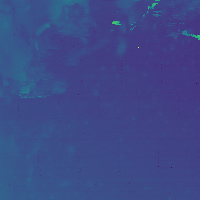
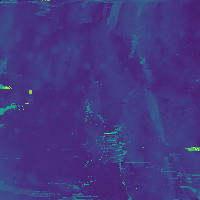
Version used in presentation with added interpolation (nn and cubic)

diff --git a/Desktop/SICMGUIPyQT.py b/Desktop/SICMGUIPyQT.py
@@ -2,7 +2,7 @@ import numpy as np
 import PyQt5 as pqt
 from PyQt5.QtWidgets import *
 from PyQt5.QtGui import *
-from ManipulateData import filter_average_temporal, filter_median_temporal, interpolate_cubic, interpolate_neighbor, level_data, subtract_minimum, filter_average_spatial, filter_median_spatial, crop
+from ManipulateData import filter_average_temporal, filter_median_temporal, interpolate_cubic, level_data, subtract_minimum, filter_average_spatial, filter_median_spatial, crop
 from SICMViewerHelper import SICMDataFactory, ApproachCurve, ScanBackstepMode
 from matplotlib.backends.backend_qt5 import NavigationToolbar2QT
 from View import View
@@ -130,7 +130,7 @@ class MainWindow(QtWidgets.QMainWindow):
         action_export_bitmap = QAction('&As bitmap (png)', self)
         action_export_bitmap.triggered.connect(self.menu_action_export_bitmap)
         action_export_vector = QAction('&as vector (pdf)', self)
-        #action_export_vector.triggered.connect(self.menu_action_export_vector)
+        action_export_vector.triggered.connect(self.menu_action_export_vector)
 
         export_menu = menubar.addMenu("&Export")
         clipboard_menu = export_menu.addMenu('As image')
@@ -158,8 +158,8 @@ class MainWindow(QtWidgets.QMainWindow):
         action_view_content = QAction('&Hide axis content', self)
         action_view_content.setCheckable(True)
         action_view_content.triggered.connect(self.menu_action_view_content)
-        action_view_axes = QAction('&Hide axes when updated', self)
-        action_view_axes.setCheckable(True)
+        #action_view_axes = QAction('&Hide axes when updated', self)
+        #action_view_axes.setCheckable(True)
         #action_view_axes.triggered.connect(self.menu_action_view_axes)
         action_view_restore = QAction('&Restore view', self)
         action_view_restore.triggered.connect(self.menu_action_view_restore)
@@ -167,25 +167,25 @@ class MainWindow(QtWidgets.QMainWindow):
         #action_view_mode.triggered.connect(self.menu_action_view_mode)
         action_view_ratio = QAction('&Aspect ratio', self)
         action_view_ratio.triggered.connect(self.menu_action_view_ratio)
-        action_view_surface = QAction('&Interpolate surface', self)
+        #action_view_surface = QAction('&Interpolate surface', self)
         #action_view_surface.triggered.connect(self.menu_action_view_surface)
         action_view_xlimits = QAction('&Adjust x limits', self)
         action_view_xlimits.triggered.connect(self.menu_action_view_xlimits)
         action_view_ylimits = QAction('&Adjust y limits', self)
         action_view_ylimits.triggered.connect(self.menu_action_view_ylimits)
-        action_view_colormap = QAction('&Colormap', self)
-        action_view_colormap.triggered.connect(self.menu_action_view_colormap)
+        #action_view_colormap = QAction('&Colormap', self)
+        #action_view_colormap.triggered.connect(self.menu_action_view_colormap)
 
         view_menu = menubar.addMenu("&View")
         view_menu.addAction(action_view_content)
-        view_menu.addAction(action_view_axes)
+        #view_menu.addAction(action_view_axes)
         view_menu.addAction(action_view_restore)
         #view_menu.addAction(action_view_mode)
         view_menu.addAction(action_view_ratio)
-        view_menu.addAction(action_view_surface)
+        #view_menu.addAction(action_view_surface)
         view_menu.addAction(action_view_xlimits)
         view_menu.addAction(action_view_ylimits)
-        view_menu.addAction(action_view_colormap)
+        #view_menu.addAction(action_view_colormap)
 
         action_data_crop = QAction('&Crop', self)
         action_data_crop.triggered.connect(self.menu_action_data_crop)
@@ -382,6 +382,8 @@ class MainWindow(QtWidgets.QMainWindow):
 
     def menu_action_export_bitmap(self):
         self.currentView.make_plot(self.canvas.axes,save=True)
+    def menu_action_export_vector(self):
+        self.currentView.make_plot(self.canvas.axes,save=True,saveType='pdf')
     def menu_action_plot_zoom(self):
         self.toolbar.zoom()
     def menu_action_plot_pan(self):
@@ -504,15 +506,35 @@ class MainWindow(QtWidgets.QMainWindow):
         #interpolate_cubic(self.currentView)
         #print(f)
         #plt.imshow(interpolate_cubic(self.currentView).T, extent=(0,1,0,1))
-        test = interpolate_cubic(self.currentView).T
+        pixels, success = QtWidgets.QInputDialog.getText(
+            self, 'Interpolation (Cubic Spline)', 'Please enter the number of pixels interpolate per')
+        new_z,new_x,new_y = interpolate_cubic(self.currentView,int(pixels),method='cubic')#.T
         #print(test)
         #print(test.shape)
-        self.currentView.set_z_data(test)
+        self.currentView.set_x_data(new_x)
+        self.currentView.set_y_data(new_y)
+        self.currentView.set_z_data(new_z)
         self.update_plots(self.currentView,self.currentData)
         self.currentView.make_plot(self.canvas.axes)
         return
     def menu_action_data_neighbor(self):
-        #interpolate_neighbor()
+        #TODO Determine intended usage of this 
+        #self.currentView.set_z_data(interpolate_cubic(self.currentView).T)
+        #self.update_plots(self.currentView,self.currentData)
+        #self.currentView.make_plot(self.canvas.axes)
+        #interpolate_cubic(self.currentView)
+        #print(f)
+        #plt.imshow(interpolate_cubic(self.currentView).T, extent=(0,1,0,1))
+        pixels, success = QtWidgets.QInputDialog.getText(
+            self, 'Interpolation (Cubic Spline)', 'Please enter the number of pixels interpolate per')
+        new_z,new_x,new_y = interpolate_cubic(self.currentView,int(pixels),method='nearest')#.T
+        #print(test)
+        #print(test.shape)
+        self.currentView.set_x_data(new_x)
+        self.currentView.set_y_data(new_y)
+        self.currentView.set_z_data(new_z)
+        self.update_plots(self.currentView,self.currentData)
+        self.currentView.make_plot(self.canvas.axes)
         return
     
     def menu_action_data_reset(self):

diff --git a/Desktop/ManipulateData.py b/Desktop/ManipulateData.py
@@ -72,7 +72,7 @@ def fitting_objective(real,pred):
 def crop(data,dims):
     #TODO Fix bug where pressing "Restore View" while cropped will prevent proper limits when crop is removed
     #Fixed, but different bug. Look at the interactions
-    ret_data = [i[dims[0,0]:dims[0,1],dims[1,0]:dims[1,1]] for i in data]
+    ret_data = [i[dims[1,0]:dims[1,1],dims[0,0]:dims[0,1]] for i in data]
     return ret_data
 
 #def transpose_z():
@@ -109,11 +109,22 @@ def level_plane(view_ob,guess = [0,0,0]):
 
 
 def level_data(view_ob,method='plane'):
+    """
+    Level Data
+    This method is intended to correct for a variety of possible shapes that . 
+
+    :param view_ob: View object which contains the data 
+    :returns: An adjusted NDArray of z-data which corresponds to the original data with the specified geometry subtracted.
+    This NDArray will be the 
+    """
     full_x = view_ob.get_x_data()
     full_y = view_ob.get_y_data()
     real_z = view_ob.get_z_data().flatten('F')
     real_x = view_ob.get_x_data().flatten('F')
-    real_y = view_ob.get_y_data().flatten('F')
+    real_y = view_ob.get_y_data().flatten('F') 
+    #In the below methods, each array is a . 
+    #Each array is a 
+    #For example, the general equation of a plane can be stated as z = ax + by + c
     if method == 'plane' or method == 'linewise' or method == 'linewise_mean' or method == 'linewise_y':
         eq = np.array([np.ones(real_z.shape[0]), real_x, real_y]).transpose()
     elif method == '2Dpoly':
@@ -123,14 +134,17 @@ def level_data(view_ob,method='plane'):
     coeff, r, rank, s = np.linalg.lstsq(eq, real_z,rcond=1)
     print(coeff)
     xy_coord = np.array([view_ob.get_x_data().flatten('F'), view_ob.get_y_data().flatten('F')]).transpose()
+    #The coefficients calculated above are then used to create a . This will be 
     if method == 'plane' or method == 'linewise' or method == 'linewise_mean' or method == 'linewise_y':
         pred_z = [coeff[0]+ coeff[1]*i[0]+coeff[2]*i[1] for i in xy_coord]
     if method == '2Dpoly':
         pred_z = [coeff[0] + coeff[1]*i[0]+coeff[2]*i[1] + coeff[3]*(i[0]**2) + coeff[4]*(i[0]**2)*i[1] + coeff[5]*(i[0]**2)*(i[1]**2) + coeff[6]*(i[1]**2) + coeff[7]*i[0]*(i[1]**2)+ coeff[8]*i[0]*i[1] for i in xy_coord]
     if method == 'paraboloid':
+        #pred_z = [coeff[0] + ((coeff[1]**2))/(i[0]**2) + ((coeff[2]**2))/(i[1]**2) for i in xy_coord]
         pred_z = [coeff[0] + (1/(coeff[1]**2))*(i[0]**2) + (1/(coeff[2]**2))*(i[1]**2) for i in xy_coord]
+    print(pred_z[:10])
     adj_z = real_z - pred_z 
-    adj_z = adj_z.reshape(view_ob.get_z_data().shape,order='F')
+    adj_z = adj_z.reshape(view_ob.get_z_data().shape,order='F').transpose()
     '''if method == 'linewise':
         #xz_coord = np.array([view_ob.get_x_data(), adj_z])#.transpose()
         #adj_z = np.empty()
@@ -176,18 +190,40 @@ def level_data(view_ob,method='plane'):
         return retVals
     return view_ob.get_z_data()'''
 
-def interpolate_cubic(view_ob):
-    x = view_ob.get_x_data().flatten()
-    y = view_ob.get_y_data().flatten()
+def interpolate_cubic(view_ob,num_points,method='nearest'):
+    """
+    Interpolate Cubic
+    Sets x-axis limits for the visual display of the data. This does not crop the data and the rest can still be viewed by panning.
+    Will check to ensure the values are floats but does not check that the lower bound is first.
+
+    :param lims: List containing two floats which define the lower and upper bound of the y-axis, respectively
+    :returns: 1 upon successful setting and 0 upon failure
+    """
+    x = view_ob.get_x_data()#.flatten()
+    y = view_ob.get_y_data()#.flatten()
     z = view_ob.get_z_data().flatten()
-    grid_x, grid_y = np.mgrid[0:1:len(x), 0:1:len(y)]
-    rng = np.random.default_rng()
-    points = np.array((x,y)).T#np.insert(x, np.arange(len(y)), y)
-    print(points.shape)
-    inter = griddata(points, z, (grid_x, grid_y), method='cubic')
-    return inter
-def interpolate_neighbor(view_ob):
+    #grid_x, grid_y = np.mgrid[0:len(x):1/num_points, 0:len(y):1/num_points]
+    grid_x_new,grid_y_new = np.mgrid[0:x.shape[0]:1/num_points, 0:x.shape[1]:1/(num_points+1)]
+    #rng = np.random.default_rng()
+    #points = np.array((x,y)).T#np.insert(x, np.arange(len(y)), y)
+    grid_x_old,grid_y_old = np.mgrid[0:x.shape[0],0:x.shape[1]]
+    grid_x_old = grid_x_old.flatten()
+    grid_y_old = grid_y_old.flatten()
+    #print(grid_x_new.shape)
+    #print(z.shape)
+    #print(grid_x_old.shape)
+    inter = griddata((grid_x_old,grid_y_old), z, (grid_x_new,grid_y_new), method=method) #(grid_x,grid_y)
+    return [inter,grid_x_new,grid_y_new]
+'''def interpolate_neighbor(view_ob):
+    """
+    Interpolate Neighbor
+    Sets x-axis limits for the visual display of the data. This does not crop the data and the rest can still be viewed by panning.
+    Will check to ensure the values are floats but does not check that the lower bound is first.
+
+    :param lims: List containing two floats which define the lower and upper bound of the y-axis, respectively
+    :returns: 1 upon successful setting and 0 upon failure
+    """
     grid_x, grid_y = np.mgrid[0:1:100j, 0:1:200j]
     points = np.concatenate((view_ob.get_x_data().flatten(),view_ob.get_y_data().flatten()),axis=1)
     inter = griddata(points, view_ob.get_z_data().flatten(), (grid_x, grid_y), method='nearest')
-    return inter
+    return inter'''

diff --git a/Desktop/View.py b/Desktop/View.py
@@ -32,16 +32,6 @@ class View:
             self.x_data,self.z_data = data.plot()
             self.x_data = np.array(self.x_data)
             self.z_data = np.array(self.z_data)
-        
-
-        #self.plot = plt.plot(*self.sicm_data.plot())
-        #plt.show()
-        #if self.mode == ''
-        #self.sicm_data = factory_data
-        #if isinstance(self.sicm_data,ScanBackstepMode):
-            #self.plot = plt.imshow(*self.sicm_data.plot())
-        #else:#if isinstance(self.sicm_data, ):
-            #self.plot = plt.plot(*self.sicm_data.plot())
     
     def get_plot(self):
         """
@@ -109,7 +99,7 @@ class View:
             #plt.figure(img)
             plt.imsave('Test.'+saveType,self.get_z_data())
             #plt.savefig("TestSaveFig.png")
-            img.savefig('TestSaveFig.'+saveType)
+            #img.savefig('TestSaveFig.'+saveType)
         plt.draw()
     def show_plot(self):
         #This does not work, should be deleted
@@ -124,7 +114,6 @@ class View:
         if aspect == 'equal' or aspect == 'auto':
             self.aspectRatio = aspect
             return 1
-        #if isinstance(aspect, float) or isinstance(aspect, int):
         try: 
             aspect = float(aspect)
             self.aspectRatio = aspect
